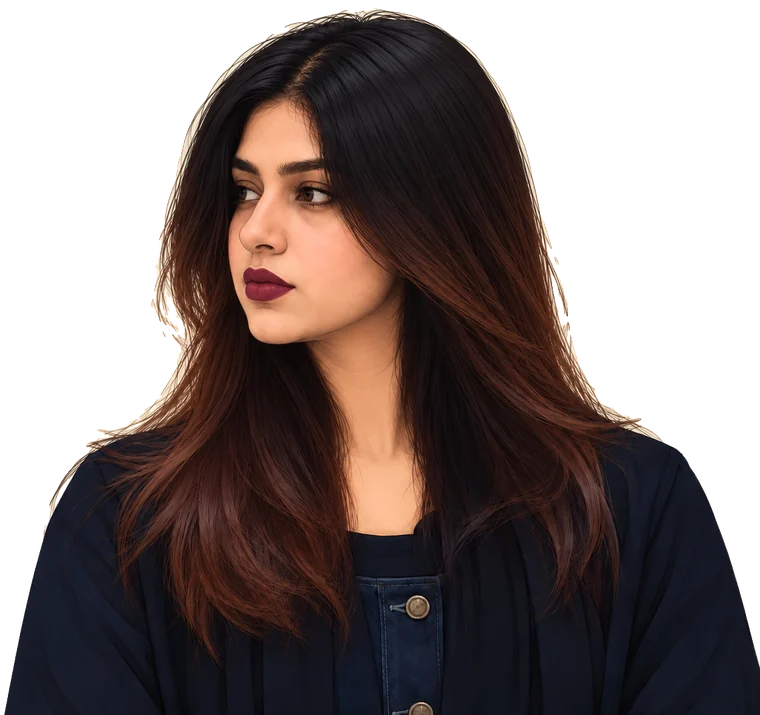
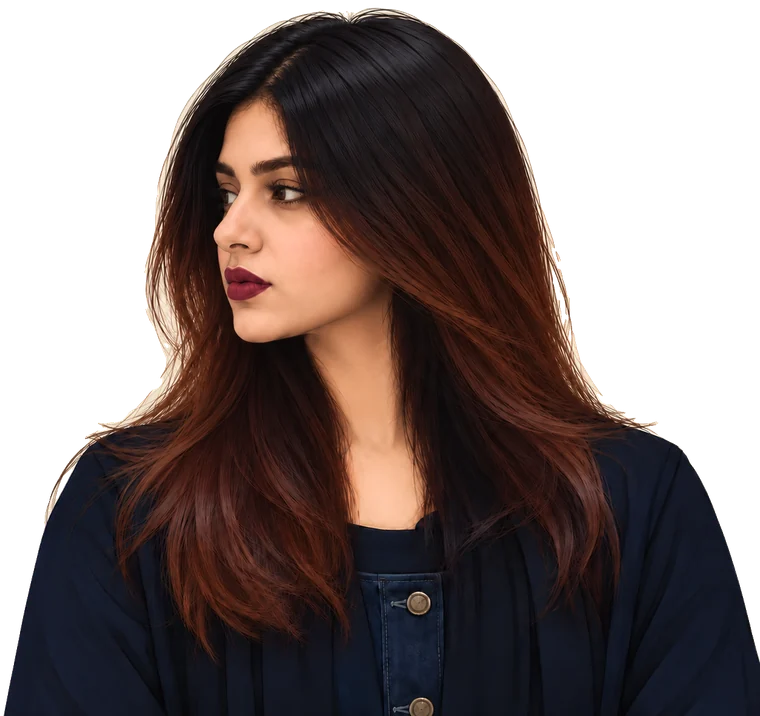
Rebuild the head turn from 37 frames with per-frame angles
Frames follow Codex's frame-manifest.json order and positions; the page
snaps to the nearest angle instead of crossfading, which doubled features.

diff --git a/index.html b/index.html
@@ -384,7 +384,7 @@ footer { display: flex; justify-content: space-between; gap: 12px; flex-wrap: wr
     <h1 class="hero__name">Shiza</h1>
     <span class="hero__tag"><i></i>Cyber · Projects · Content</span>
     <div class="portrait-stage" id="portrait-stage">
-      <img class="portrait" id="portrait" src="assets/turn/front.webp" alt="Illustrated portrait of Shizanourin" width="760" height="715">
+      <img class="portrait" id="portrait" src="assets/turn/front.webp" alt="Illustrated portrait of Shizanourin" width="760" height="716">
     </div>
     <p class="hero__intro">Based in Kuwait City. <b>I secure systems, keep projects on track and make content people actually watch.</b> Glad you stopped by 💜</p>
     <a class="hero__cue" href="#services">Scroll to see what I do <span aria-hidden="true">↓</span></a>
@@ -997,8 +997,18 @@ footer { display: flex; justify-content: space-between; gap: 12px; flex-wrap: wr
     const load = i => imgs[i] || (imgs[i] = Object.assign(new Image(), { src: TURN.src(i), decoding: 'async' }));
     const ready = i => imgs[i]?.complete && imgs[i].naturalWidth > 0;
     let target = 0, cur = 0, shown = -1;
-    // Crossfade between the two nearest frames so 7 angles read as a smooth turn.
+    const draw = i => { c2.clearRect(0, 0, cvs.width, cvs.height); c2.globalAlpha = 1; c2.drawImage(imgs[i], 0, 0, cvs.width, cvs.height); };
     const paint = () => {
+      // Manifest frames carry their own head angle (-1 left … +1 right): show the closest one, crisp.
+      // These are separately generated images, so blending two of them would double the features.
+      if (TURN.positions) {
+        let best = TURN.front, bestD = Infinity;
+        TURN.positions.forEach((p, i) => { const d = Math.abs(p - cur); if (d < bestD && ready(i)) { bestD = d; best = i; } });
+        if (best === shown || !ready(best)) return;
+        shown = best; draw(best);
+        return;
+      }
+      // Evenly spaced sets: crossfade between the two nearest frames so a few angles read as a smooth turn.
       const pos = cur < 0 ? TURN.front * (1 + cur) : TURN.front + (TURN.count - 1 - TURN.front) * cur;
       if (Math.abs(pos - shown) < .01) return;
       // Hold each angle crisp and only blend in a short window around the switch, so faces never double up for long.
@@ -1063,7 +1073,11 @@ footer { display: flex; justify-content: space-between; gap: 12px; flex-wrap: wr
     loopFns.push(() => { cur += (target - cur) * .12; paint(); });
   };
   fetch('assets/turn/frames.json', { cache: 'no-cache' }).then(r => r.ok ? r.json() : null)
-    .then(j => { if (j && j.count > 0) { TURN.count = j.count; TURN.front = clamp(j.front ?? 0, 0, j.count - 1); } })
+    .then(j => {
+      if (!j || !(j.count > 0)) return;
+      TURN.count = j.count; TURN.front = clamp(j.front ?? 0, 0, j.count - 1);
+      if (Array.isArray(j.positions) && j.positions.length === j.count) TURN.positions = j.positions;
+    })
     .catch(() => {}).finally(startTurn);
 
   // what I do: pinned sideways scroll (desktop). Panels scale up as they reach the centre.

diff --git a/tools/build_frames.py b/tools/build_frames.py
@@ -39,7 +39,27 @@ def main() -> int:
     ap.add_argument("--quality", type=int, default=86, help="WebP quality (default 86)")
     args = ap.parse_args()
 
-    files = sorted((f for f in args.source.iterdir() if f.suffix.lower() in IMAGE_EXTS), key=natural_key)
+    # A frame-manifest.json in the source folder sets the order, per-frame positions (-1..1) and the
+    # center frame: {"centerIndex": n, "frames": [{"file": "...", "position": -1.0}, ...]}.
+    # Without one, every image is used in filename order with evenly spaced positions.
+    manifest_path = args.source / "frame-manifest.json"
+    positions = None
+    if manifest_path.exists():
+        manifest = json.loads(manifest_path.read_text(encoding="utf-8"))
+        files = [args.source / f["file"] for f in manifest["frames"]]
+        positions = [float(f["position"]) for f in manifest["frames"]]
+        missing = [f.name for f in files if not f.exists()]
+        if missing:
+            print(f"Manifest lists files that don't exist: {missing}", file=sys.stderr)
+            return 1
+        if positions != sorted(positions):
+            print("Manifest positions must go from left (-1) to right (+1).", file=sys.stderr)
+            return 1
+        if args.front is None and "centerIndex" in manifest:
+            args.front = int(manifest["centerIndex"])
+        print(f"Using {manifest_path.name}: {len(files)} frames.")
+    else:
+        files = sorted((f for f in args.source.iterdir() if f.suffix.lower() in IMAGE_EXTS), key=natural_key)
     if len(files) < 2:
         print(f"Need at least 2 images in {args.source}, found {len(files)}.", file=sys.stderr)
         return 1
@@ -90,7 +110,10 @@ def main() -> int:
         if i == front:
             c.save(OUT_DIR / "front.webp", "WEBP", quality=args.quality, method=6)
 
-    (OUT_DIR / "frames.json").write_text(json.dumps({"count": len(cuts), "front": front}, indent=2) + "\n")
+    meta = {"count": len(cuts), "front": front}
+    if positions:
+        meta["positions"] = positions
+    (OUT_DIR / "frames.json").write_text(json.dumps(meta, indent=2) + "\n")
     print(f"Wrote {len(cuts)} frames to {OUT_DIR} (front = {front}: {files[front].name}).")
     print("If index.html's <img id=\"portrait\"> width/height differ from the new frame size, update them to match.")
     return 0
